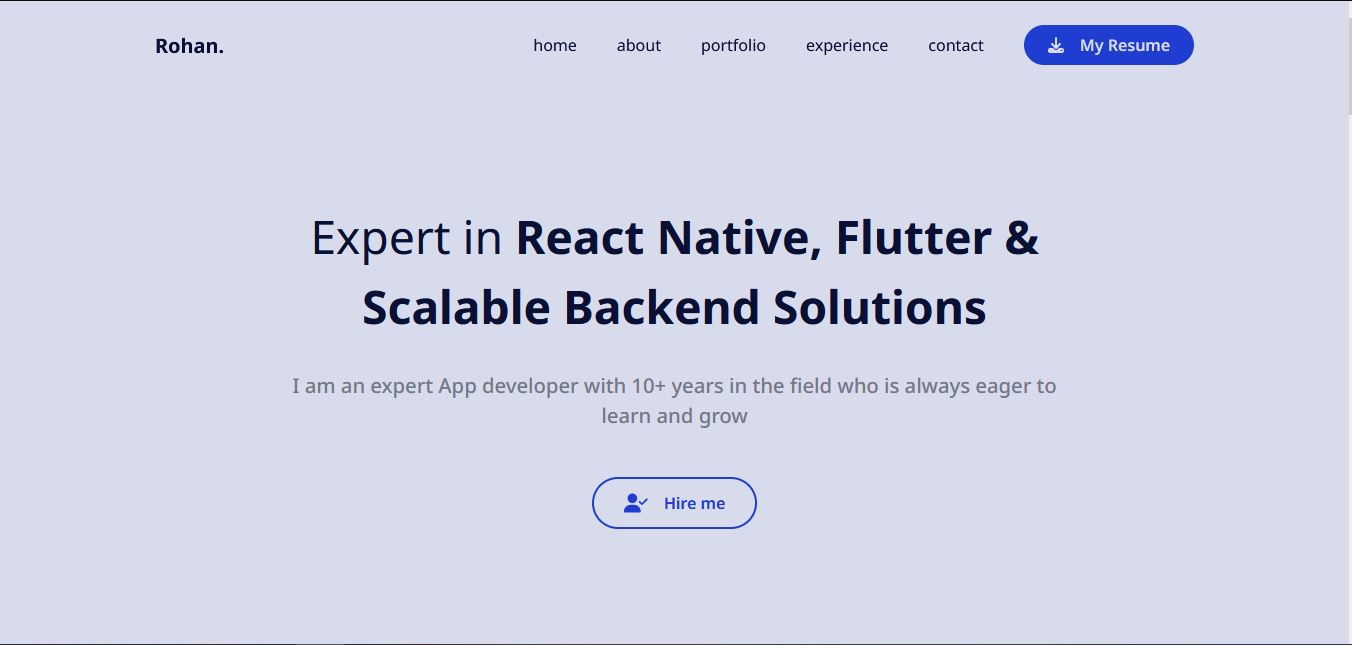
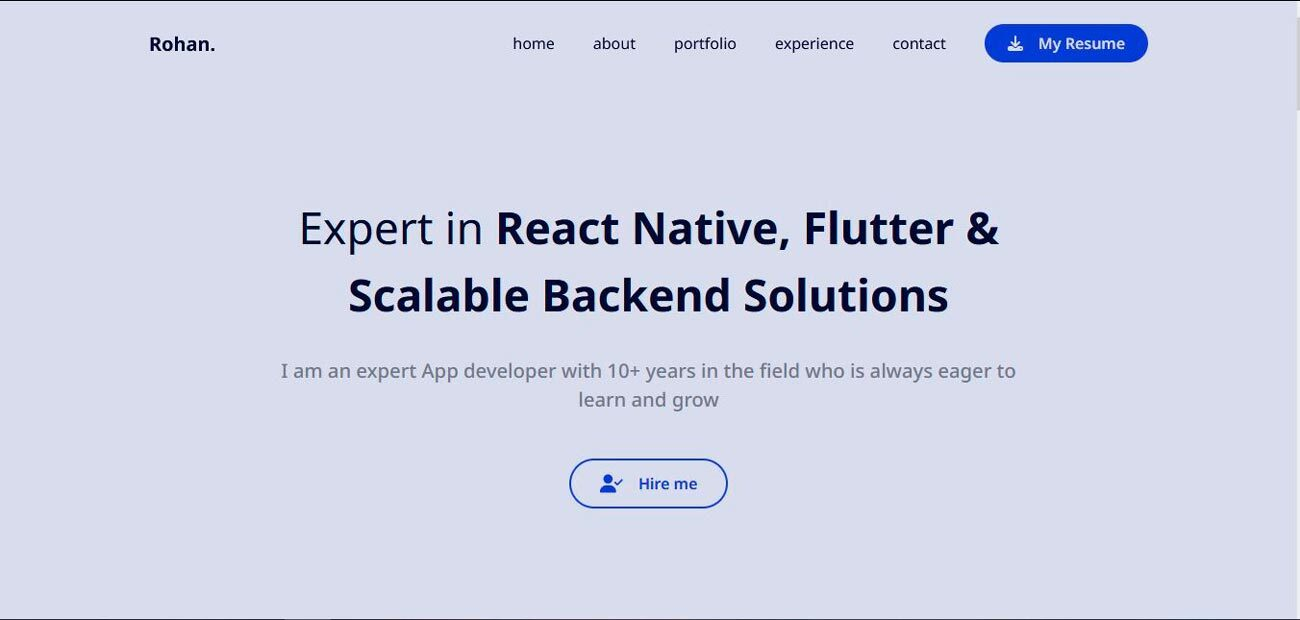
navbar repaired

diff --git a/src/components/navbar.tsx b/src/components/navbar.tsx
@@ -7,6 +7,7 @@ import { FaBars } from "react-icons/fa6"
 
 // Typescript:
 import { RouterPathsType } from "../App"
+import { motion, Variants } from "motion/react"
 
 interface NavigationLinkType {
     id?: number
@@ -22,8 +23,8 @@ const NavigationLink = ({
     currentPage,
     toggleIsNavbarOpen
 }: NavigationLinkType) =>   <NavLink 
-                                className={`${currentPage === title ? 'font-bold pointer-events-none' : ' !font-normal text-[#555454]' } 
-                                            text-[20.25px]  hover:font-bold hover:text-[#E02720]`}
+                                className={`${currentPage === title ? 'font-bold pointer-events-none' : ' !font-normal text-[#6d6d6d]' } 
+                                            text-[20.25px]  hover:font-bold hover:text-[#E02720] hover:shadow-[0_2px_0_0_rgb(224,73,68)]`}
                                 to={title}
                                 onClick={toggleIsNavbarOpen}
                                 >
@@ -35,7 +36,24 @@ const Navbar = ({
 }:RouterPathsType) => {
     // Constants:
     const currentPage = useLocation()
-
+    const hamburgerMenuVariant: Variants = {
+        hidden: {
+            x: '100%',
+            opacity: 0,
+        },
+        visible: {
+            x: '0px',
+            opacity: 1,
+        }
+    }
+    const blackOverlayVariant: Variants = {
+        hidden: {
+            opacity: 0,
+        },
+        visible: {
+            opacity: 1,
+        }
+    }
     // States:
     const [isNavBarOpen, setIsNavBarOpen] = useState<boolean>(false) 
 
@@ -51,26 +69,33 @@ const Navbar = ({
             />
 
             {/* Hamburger Menu */}
-            <div className='md:hidden'>
+            <div className={`absolute z-[100] right-[20px] sm:hidden`}>
                 <FaBars 
-                    className={` cursor-pointer fill-[#92A8E0]`}
+                    className={` cursor-pointer fill-[#ffffff]`}
                     size={24} 
-                    onClick={toggleIsNavbarOpen}
+                    onClick={()=>setIsNavBarOpen(!isNavBarOpen)}
                 />
             </div>
 
-            <div className={`${ isNavBarOpen ? '' : 'hidden' } md:hidden z-[30] pointer-events-none bg-[rgba(0,0,0,0.75)] absolute top-0 bottom-0 left-0 right-0 block`}></div>
+            <motion.div 
+                initial='hidden'
+                animate={isNavBarOpen ? 'visible' : 'hidden'}
+                variants={blackOverlayVariant}
+                transition={{duration: .75, ease: 'easeInOut'}}
+                className='sm:hidden z-[30] pointer-events-none bg-[rgba(0,0,0,0.75)] fixed top-0 bottom-0 left-0 right-0 block'>
+                
+            </motion.div>
 
-            <div className={`${ isNavBarOpen ? 'block' : 'hidden' } z-[50] py-[25px] px-[20px] md:z-[0] md:p-0 absolute right-0 top-0 bottom-0 w-[75%] sm:w-[35%] md:w-max bg-[#F0F2F6] md:bg-[transparent] md:block md:static`}>
-                <div className='md:hidden'>
-                    <FaBars 
-                        className={`md:hidden cursor-pointer fill-[#92A8E0]`}
-                        size={24} 
-                        onClick={toggleIsNavbarOpen}
-                    />
-                </div>
-                <div className={`mt-[30px] flex  flex-col gap-[40px] md:flex-row md:mt-[0px] items-center`}>
-                {routerPaths.map((page, index)=>
+            <motion.div 
+                initial='hidden'
+                animate={isNavBarOpen ? 'visible' : 'hidden'}
+                exit='hidden'
+                variants={hamburgerMenuVariant}
+                transition={{duration: .75, ease: 'easeInOut'}}
+                className='origin-right z-[50] py-[50px] px-[20px] md:z-[0] md:p-0 fixed right-0 top-0 bottom-0 w-[75%] min-[540px]:w-[45%] bg-[#313030] sm:hidden'
+            >
+                <div className='mt-[30px] flex flex-col gap-[40px] items-center'>
+                {routerPaths?.map((page, index)=>
                     <NavigationLink 
                         key={index}
                         title={page.path ?? '/'}
@@ -79,8 +104,18 @@ const Navbar = ({
                     />
                     )}
                 </div>
-            </div>
+            </motion.div>
             
+            <div className='hidden sm:flex gap-[32px]'>
+                {routerPaths?.map((page, index)=>
+                    <NavigationLink 
+                        key={index}
+                        title={page.path ?? '/'}
+                        currentPage={currentPage.pathname}
+                        toggleIsNavbarOpen={toggleIsNavbarOpen}
+                    />
+                )}
+            </div>
     </div>
 }
 

diff --git a/src/pages/home/hero.tsx b/src/pages/home/hero.tsx
@@ -56,7 +56,7 @@ const Hero = () => {
                 <picture>
                     <source media='(min-width:1024px)' srcSet='./images/heroBackground.png' />
                     <img 
-                        className='max-lg:max-h-[400px] h-auto w-full object-cover '
+                        className='max-lg:max-h-[400px] h-auto w-full object-cover'
                         src='./images/heroBackgroundMobile.png'
                         alt='Hero Background'
                     />
